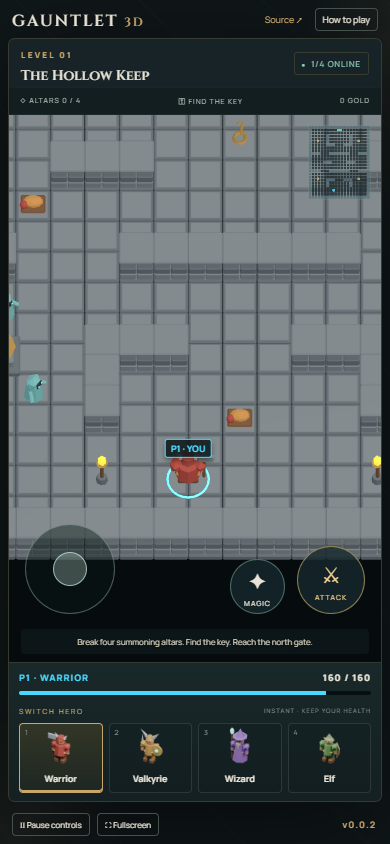
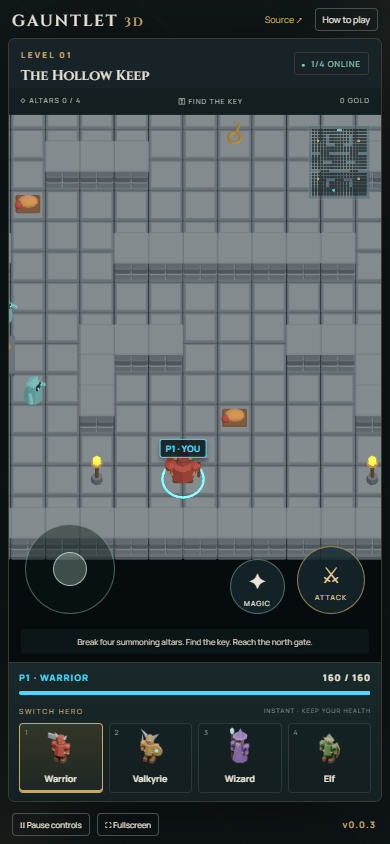
docs: record public v0.0.3 playthrough and finalize specifications

diff --git a/README.md b/README.md
@@ -4,7 +4,9 @@ A cooperative 3D dungeon crawler for 1–4 browser players, inspired by Gauntlet
 
 ## Live Demo
 
-Deployment verification is pending. The public repository is [babylon-lite-gauntlet-clone-3d](https://github.com/SamuelAsherRivello/babylon-lite-gauntlet-clone-3d).
+[Play Gauntlet 3D](https://samuelasherrivello.github.io/babylon-lite-gauntlet-clone-3d/) · [Release v0.0.3](https://github.com/SamuelAsherRivello/babylon-lite-gauntlet-clone-3d/releases/tag/v0.0.3)
+
+Open the same link on up to four devices. Use current Chrome or Edge with WebGPU enabled.
 
 ![Two players selecting the same hero](project-name/documentation/game-desktop.png)
 
@@ -39,7 +41,7 @@ npm run preview
 
 Vite prints the local URL, including `/babylon-lite-gauntlet-clone-3d/`. No secrets are needed. The default client connects to the public backend. For isolated development, run the [shared server](https://github.com/SamuelAsherRivello/rmc-colyseus-multiplayer-server) and set `VITE_SERVER_URL` to its origin before starting Vite.
 
-`npm run test:browser` uses installed Chrome and two isolated browser contexts, then completes the level through keyboard controls and checks a touch viewport. Its default URL is the dev server on port 5186; override `GAME_URL` if needed. Run it against an isolated backend because it plays and restarts the room. Touch is emulated; physical mobile hardware has not been tested.
+`npm run test:browser` uses installed Chrome and two isolated browser contexts, then completes the level through keyboard controls and checks a touch viewport. Its default URL is the dev server on port 5186; override `GAME_URL` if needed. Run it against an isolated backend because it plays and restarts the room. `node project-name/test/recovery.mjs` additionally verifies natural defeat, restart, disconnect/retry, unsupported WebGPU, and simultaneous touch cancellation. Touch is emulated; physical mobile hardware has not been tested.
 
 ## Architecture and artwork
 

diff --git a/AGENTS_TEMPLATE_USAGE_CHECKLIST.md b/AGENTS_TEMPLATE_USAGE_CHECKLIST.md
@@ -138,4 +138,4 @@ Node/npm/Vite baseline that may be retained or replaced deliberately.
 
 ## Completion notes
 
-Completed against the implemented game; provenance documents deliberate overrides: GitHub template generation (fresh `Initial commit`), retained `project-name/` per AGENTS.md, and explicitly requested current library skills instead of bundled copies. No claim is made that Codex autocomplete was manually reloaded; skills were directly read and applied. No formatter or private configuration is required. Retain this checklist as delivery evidence; cleanup is optional and outside game implementation. Public verification is tracked in the client change until deployment completes.
+Completed against the implemented game; provenance documents deliberate overrides: GitHub template generation (fresh `Initial commit`), retained `project-name/` per AGENTS.md, and explicitly requested current library skills instead of bundled copies. No claim is made that Codex autocomplete was manually reloaded; skills were directly read and applied. No formatter or private configuration is required. Retain this checklist as delivery evidence; cleanup is optional and outside game implementation. Public deployment and gameplay verification passed; evidence is recorded in project-name/documentation/verification.md.

diff --git a/openspec/specs/dungeon-client/spec.md b/openspec/specs/dungeon-client/spec.md
@@ -1,0 +1,27 @@
+# dungeon-client
+
+## Purpose
+Provide verified dungeon-client behavior for the cooperative Gauntlet-inspired 3D dungeon game.
+
+## Requirements
+
+### Requirement: Play and switch
+The client SHALL hot join, show four instant class buttons and retain distinct connection colors for duplicate classes.
+
+#### Scenario: Play and switch acceptance
+- **WHEN** two players choose wizard
+- **THEN** both see separate colored numbered identities and synchronized world state
+
+### Requirement: Controls and recovery
+The client SHALL support keyboard and simultaneous touch movement/attack, safe blur/cancel release, local pause and connection/unsupported states.
+
+#### Scenario: Controls and recovery acceptance
+- **WHEN** focus is lost or a touch is canceled
+- **THEN** input stops without pausing other players
+
+### Requirement: Public delivery
+The game SHALL provide one complete playable dungeon on GitHub Pages with version, instructions, documentation and verified desktop/mobile presentation.
+
+#### Scenario: Public delivery acceptance
+- **WHEN** two independent clients join the public game
+- **THEN** both can play the same released level

diff --git a/project-name/documentation/verification.md b/project-name/documentation/verification.md
@@ -8,3 +8,13 @@
 - 390x844 mobile emulation: no horizontal overflow, joystick, concurrent attack, touch release and cancellation. Physical touch hardware untested.
 - Shared backend v0.5.0: 15 regression tests and live production integration checks pass. See server verification record.
 - Screenshots are captured from the actual runtime. The visual target is separately labeled conceptual artwork.
+
+## Public release evidence
+
+- Release v0.0.3 targets f7c0c88e8efd58c47cd4c2c54647b747a332de51.
+- Release workflow: https://github.com/SamuelAsherRivello/babylon-lite-gauntlet-clone-3d/actions/runs/36613779302
+- Pages deployment: https://github.com/SamuelAsherRivello/babylon-lite-gauntlet-clone-3d/actions/runs/36613843700
+- Public version.txt and rendered HUD both show 0.0.3.
+- Two public clients joined, switched through all four classes, and shared duplicate wizard/valkyrie identities with distinct colors.
+
+Public full-level keyboard playthrough, victory, restart and mobile emulation also passed with zero uncaught browser errors. browser-verification.json records the public URL and timestamp.

diff --git a/openspec/changes/archive/2026-09-29-dungeon-client/tasks.md b/openspec/changes/archive/2026-09-29-dungeon-client/tasks.md
@@ -5,4 +5,4 @@
 - [x] 1.1 Integrate released shared client and Babylon Lite scene
 - [x] 1.2 Implement four class buttons, party identity, controls and recovery UI
 - [x] 1.3 Verify game loop with two browser clients and narrow viewport
-- [ ] 1.4 Document, release, deploy and verify public game
+- [x] 1.4 Document, release, deploy and verify public game
